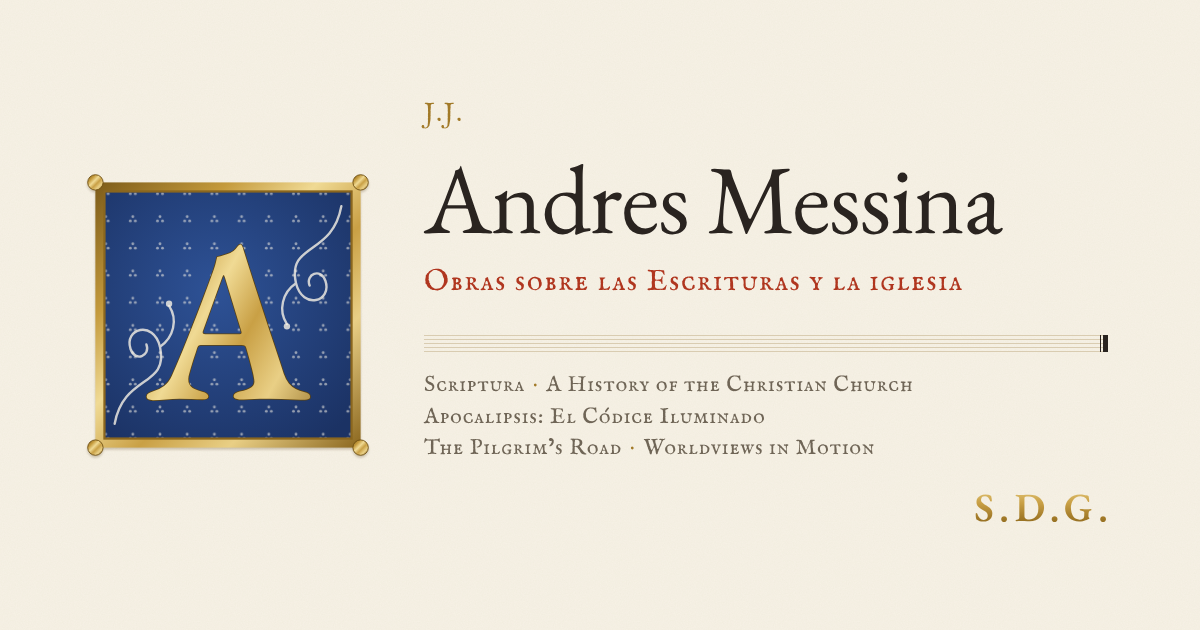
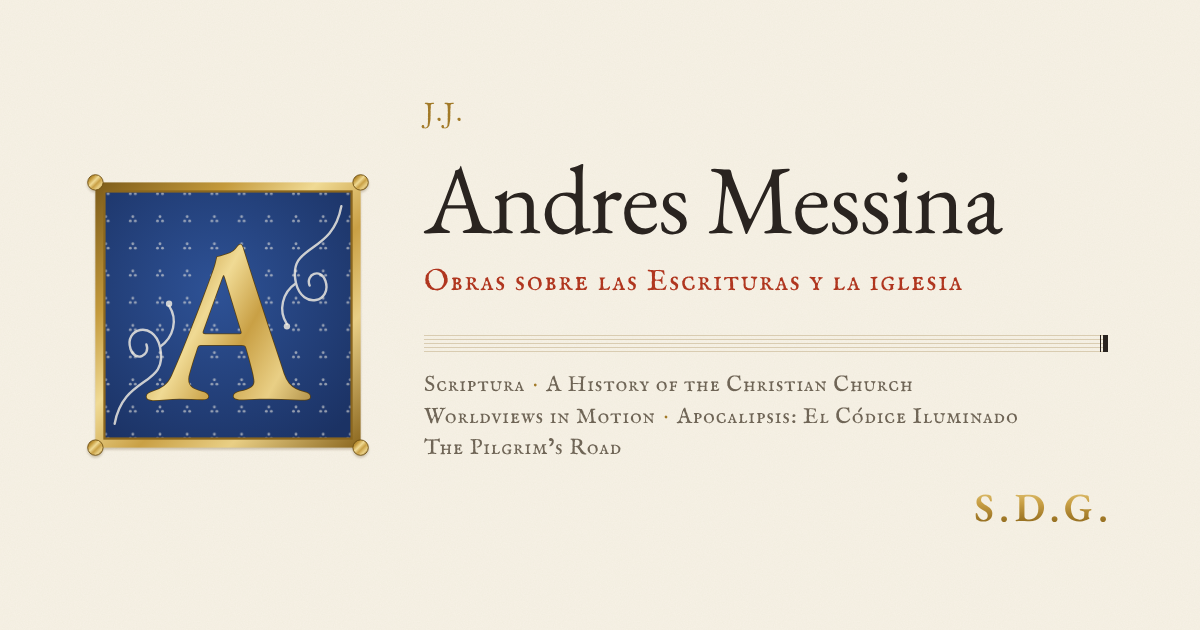
Place Worldviews in Motion third, after the church history
Claude-Session: https://claude.ai/code/session_01DYe9WbnfF8iCgbQuoUdmui

Changed region(s): [[0.3392, 0.6333, 0.8325, 0.7238]]

diff --git a/es/index.html b/es/index.html
@@ -4,7 +4,7 @@
 <meta charset="utf-8">
 <meta name="viewport" content="width=device-width, initial-scale=1, viewport-fit=cover">
 <title>Andres Messina</title>
-<meta name="description" content="Obras de Andres Messina para leer las Escrituras y conocer la historia de la iglesia: Scriptura, A History of the Christian Church, Apocalipsis: El Códice Iluminado, The Pilgrim’s Road y Worldviews in Motion.">
+<meta name="description" content="Obras de Andres Messina para leer las Escrituras y conocer la historia de la iglesia: Scriptura, A History of the Christian Church, Worldviews in Motion, Apocalipsis: El Códice Iluminado y The Pilgrim’s Road.">
 <meta name="author" content="Andres Messina">
 <meta name="color-scheme" content="light">
 <meta name="theme-color" content="#F7F2E6">
@@ -15,7 +15,7 @@
 <meta property="og:type" content="website">
 <meta property="og:site_name" content="Andres Messina">
 <meta property="og:title" content="Andres Messina">
-<meta property="og:description" content="Obras de Andres Messina para leer las Escrituras y conocer la historia de la iglesia: Scriptura, A History of the Christian Church, Apocalipsis: El Códice Iluminado, The Pilgrim’s Road y Worldviews in Motion.">
+<meta property="og:description" content="Obras de Andres Messina para leer las Escrituras y conocer la historia de la iglesia: Scriptura, A History of the Christian Church, Worldviews in Motion, Apocalipsis: El Códice Iluminado y The Pilgrim’s Road.">
 <meta property="og:url" content="https://andresmessina-sdg.github.io/es/">
 <meta property="og:locale" content="es_ES">
 <meta property="og:locale:alternate" content="en_US">
@@ -25,10 +25,10 @@
 <meta property="og:image:alt" content="Una A dorada sobre fondo azul, junto al nombre Andres Messina y sus cinco obras.">
 <meta name="twitter:card" content="summary_large_image">
 <meta name="twitter:title" content="Andres Messina">
-<meta name="twitter:description" content="Obras de Andres Messina para leer las Escrituras y conocer la historia de la iglesia: Scriptura, A History of the Christian Church, Apocalipsis: El Códice Iluminado, The Pilgrim’s Road y Worldviews in Motion.">
+<meta name="twitter:description" content="Obras de Andres Messina para leer las Escrituras y conocer la historia de la iglesia: Scriptura, A History of the Christian Church, Worldviews in Motion, Apocalipsis: El Códice Iluminado y The Pilgrim’s Road.">
 <meta name="twitter:image" content="https://andresmessina-sdg.github.io/assets/og-es.png">
 <meta name="twitter:image:alt" content="Una A dorada sobre fondo azul, junto al nombre Andres Messina y sus cinco obras.">
-<script type="application/ld+json">{"@context":"https://schema.org","@graph":[{"@type":"Person","@id":"https://andresmessina-sdg.github.io/#me","name":"Andres Messina","url":"https://andresmessina-sdg.github.io/","image":"https://andresmessina-sdg.github.io/assets/portrait.jpg","description":"Soy un cristiano al que le encanta aprender y construir para la gloria de Dios. Me esfuerzo por ofrecer una experiencia edificante y de excelencia estética que ayude a otros a aprender sobre las Escrituras, el cristianismo y la historia de la iglesia.","jobTitle":"Experto en Humanidades y Ciencias Sociales","knowsLanguage":["es","en"],"knowsAbout":["Teología","Filosofía","Economía","Derecho Internacional"],"sameAs":["https://www.linkedin.com/in/andresmessina/","https://github.com/andresmessina-SDG","https://ko-fi.com/andresmessina"]},{"@type":"WebPage","@id":"https://andresmessina-sdg.github.io/es/","url":"https://andresmessina-sdg.github.io/es/","name":"Andres Messina","description":"Obras de Andres Messina para leer las Escrituras y conocer la historia de la iglesia: Scriptura, A History of the Christian Church, Apocalipsis: El Códice Iluminado, The Pilgrim’s Road y Worldviews in Motion.","inLanguage":"es","author":{"@id":"https://andresmessina-sdg.github.io/#me"},"about":{"@id":"https://andresmessina-sdg.github.io/#me"},"mainEntity":{"@type":"ItemList","itemListElement":[{"@type":"ListItem","position":1,"item":{"@type":"SoftwareApplication","operatingSystem":"Linux","applicationCategory":"ReferenceApplication","offers":{"@type":"Offer","price":"0","priceCurrency":"USD"},"name":"Scriptura","url":"https://andresmessina-sdg.github.io/scriptura/es/","description":"Lee dos traducciones lado a lado, con el griego y el hebreo bajo cada palabra y cómo la iglesia leyó cada versículo.","author":{"@id":"https://andresmessina-sdg.github.io/#me"}}},{"@type":"ListItem","position":2,"item":{"@type":"WebSite","name":"A History of the Christian Church","url":"https://andresmessina-sdg.github.io/church-history/","description":"La iglesia desde Pentecostés hasta hoy, dibujada como un solo río y contada con las palabras de sus propios testigos: las Escrituras, los padres, los credos y los reformadores.","author":{"@id":"https://andresmessina-sdg.github.io/#me"}}},{"@type":"ListItem","position":3,"item":{"@type":"WebSite","name":"Apocalipsis: El Códice Iluminado","url":"https://andresmessina-sdg.github.io/revelation-explainer/?lang=es","description":"Una guía clara y llena de esperanza al libro de Apocalipsis: siete visiones de una misma era y veintidós de sus preguntas más malentendidas, leídas a la luz de toda la Escritura.","author":{"@id":"https://andresmessina-sdg.github.io/#me"}}},{"@type":"ListItem","position":4,"item":{"@type":"LearningResource","learningResourceType":"game","name":"The Pilgrim’s Road","url":"https://andresmessina-sdg.github.io/the-pilgrims-road/","description":"Once estaciones desde Belén hasta la Gran Puerta. Los alumnos aprenden la historia, las creencias y las ramas del cristianismo con preguntas, acertijos y rompecabezas.","author":{"@id":"https://andresmessina-sdg.github.io/#me"}}},{"@type":"ListItem","position":5,"item":{"@type":"WebSite","name":"Worldviews in Motion","url":"https://andresmessina-sdg.github.io/Worldviews-in-Motion/","description":"Las principales cosmovisiones del mundo, cada una pintada como una acuarela que responde a cuatro preguntas: de dónde venimos, qué salió mal, qué lo arregla y cómo termina todo. Una pregunta lleva de cada una a la siguiente, comenzando y terminando con el teísmo cristiano.","author":{"@id":"https://andresmessina-sdg.github.io/#me"}}}]}}]}</script>
+<script type="application/ld+json">{"@context":"https://schema.org","@graph":[{"@type":"Person","@id":"https://andresmessina-sdg.github.io/#me","name":"Andres Messina","url":"https://andresmessina-sdg.github.io/","image":"https://andresmessina-sdg.github.io/assets/portrait.jpg","description":"Soy un cristiano al que le encanta aprender y construir para la gloria de Dios. Me esfuerzo por ofrecer una experiencia edificante y de excelencia estética que ayude a otros a aprender sobre las Escrituras, el cristianismo y la historia de la iglesia.","jobTitle":"Experto en Humanidades y Ciencias Sociales","knowsLanguage":["es","en"],"knowsAbout":["Teología","Filosofía","Economía","Derecho Internacional"],"sameAs":["https://www.linkedin.com/in/andresmessina/","https://github.com/andresmessina-SDG","https://ko-fi.com/andresmessina"]},{"@type":"WebPage","@id":"https://andresmessina-sdg.github.io/es/","url":"https://andresmessina-sdg.github.io/es/","name":"Andres Messina","description":"Obras de Andres Messina para leer las Escrituras y conocer la historia de la iglesia: Scriptura, A History of the Christian Church, Worldviews in Motion, Apocalipsis: El Códice Iluminado y The Pilgrim’s Road.","inLanguage":"es","author":{"@id":"https://andresmessina-sdg.github.io/#me"},"about":{"@id":"https://andresmessina-sdg.github.io/#me"},"mainEntity":{"@type":"ItemList","itemListElement":[{"@type":"ListItem","position":1,"item":{"@type":"SoftwareApplication","operatingSystem":"Linux","applicationCategory":"ReferenceApplication","offers":{"@type":"Offer","price":"0","priceCurrency":"USD"},"name":"Scriptura","url":"https://andresmessina-sdg.github.io/scriptura/es/","description":"Lee dos traducciones lado a lado, con el griego y el hebreo bajo cada palabra y cómo la iglesia leyó cada versículo.","author":{"@id":"https://andresmessina-sdg.github.io/#me"}}},{"@type":"ListItem","position":2,"item":{"@type":"WebSite","name":"A History of the Christian Church","url":"https://andresmessina-sdg.github.io/church-history/","description":"La iglesia desde Pentecostés hasta hoy, dibujada como un solo río y contada con las palabras de sus propios testigos: las Escrituras, los padres, los credos y los reformadores.","author":{"@id":"https://andresmessina-sdg.github.io/#me"}}},{"@type":"ListItem","position":3,"item":{"@type":"WebSite","name":"Worldviews in Motion","url":"https://andresmessina-sdg.github.io/Worldviews-in-Motion/","description":"Las principales cosmovisiones del mundo, cada una pintada como una acuarela que responde a cuatro preguntas: de dónde venimos, qué salió mal, qué lo arregla y cómo termina todo. Una pregunta lleva de cada una a la siguiente, comenzando y terminando con el teísmo cristiano.","author":{"@id":"https://andresmessina-sdg.github.io/#me"}}},{"@type":"ListItem","position":4,"item":{"@type":"WebSite","name":"Apocalipsis: El Códice Iluminado","url":"https://andresmessina-sdg.github.io/revelation-explainer/?lang=es","description":"Una guía clara y llena de esperanza al libro de Apocalipsis: siete visiones de una misma era y veintidós de sus preguntas más malentendidas, leídas a la luz de toda la Escritura.","author":{"@id":"https://andresmessina-sdg.github.io/#me"}}},{"@type":"ListItem","position":5,"item":{"@type":"LearningResource","learningResourceType":"game","name":"The Pilgrim’s Road","url":"https://andresmessina-sdg.github.io/the-pilgrims-road/","description":"Once estaciones desde Belén hasta la Gran Puerta. Los alumnos aprenden la historia, las creencias y las ramas del cristianismo con preguntas, acertijos y rompecabezas.","author":{"@id":"https://andresmessina-sdg.github.io/#me"}}}]}}]}</script>
 <link rel="preload" href="/assets/fonts/eb-garamond-roman-latin.woff2" as="font" type="font/woff2" crossorigin>
 <link rel="preload" href="/assets/fonts/im-fell-english-sc-roman-latin.woff2" as="font" type="font/woff2" crossorigin>
 <link rel="stylesheet" href="/assets/site.css?v=ce9fe2e6fe">
@@ -167,6 +167,17 @@
       </li>
       <li class="sep" aria-hidden="true"><hr class="staff"></li>
       <li class="work blue">
+        <h3 lang="en"><a href="https://andresmessina-sdg.github.io/Worldviews-in-Motion/"><span class="versal">W</span>orldviews in Motion</a></h3>
+        <p class="kind">Acuarela animada, en inglés</p>
+        <a class="plate" href="https://andresmessina-sdg.github.io/Worldviews-in-Motion/"><img src="/assets/works/worldviews-1200.webp" srcset="/assets/works/worldviews-640.webp 640w, /assets/works/worldviews-1200.webp 1200w" sizes="(min-width: 640px) 37rem, calc(100vw - 90px)" width="1200" height="675" alt="El teísmo cristiano pintado en acuarela: el Dios trino sobre el mundo, unido a él por una cruz roja sobre la que se carga el pecado del hombre, sobre una línea de la historia desde la Creación hasta la Nueva Creación." loading="lazy" decoding="async"></a>
+        <p class="what">Las principales cosmovisiones del mundo, cada una pintada como una acuarela que responde a cuatro preguntas: de dónde venimos, qué salió mal, qué lo arregla y cómo termina todo. Una pregunta lleva de cada una a la siguiente, comenzando y terminando con el teísmo cristiano.</p>
+        <p class="facts"><span>English</span><span>22 cosmovisiones · 4 actos</span></p>
+        <p class="go">
+          <a href="https://andresmessina-sdg.github.io/Worldviews-in-Motion/">Ver las pinturas</a>
+        </p>
+      </li>
+      <li class="sep" aria-hidden="true"><hr class="staff"></li>
+      <li class="work red">
         <h3><a href="https://andresmessina-sdg.github.io/revelation-explainer/?lang=es"><span class="versal">A</span>pocalipsis: El Códice Iluminado</a></h3>
         <p class="kind">Una guía del último libro</p>
         <a class="plate" href="https://andresmessina-sdg.github.io/revelation-explainer/?lang=es"><img src="/assets/works/revelation-1200.webp" srcset="/assets/works/revelation-640.webp 640w, /assets/works/revelation-1200.webp 1200w" sizes="(min-width: 640px) 37rem, calc(100vw - 90px)" width="1200" height="675" alt="La pregunta 20 de la guía, «¿Qué es la primera resurrección?», sobre una iluminación medieval de un ángel que muestra a Juan la Nueva Jerusalén." loading="lazy" decoding="async"></a>
@@ -177,7 +188,7 @@
         </p>
       </li>
       <li class="sep" aria-hidden="true"><hr class="staff"></li>
-      <li class="work red">
+      <li class="work blue">
         <h3 lang="en"><a href="https://andresmessina-sdg.github.io/the-pilgrims-road/"><span class="versal">T</span>he Pilgrim’s Road</a></h3>
         <p class="kind">Juego para el aula, en inglés</p>
         <a class="plate" href="https://andresmessina-sdg.github.io/the-pilgrims-road/"><img src="/assets/works/pilgrims-road-1200.webp" srcset="/assets/works/pilgrims-road-640.webp 640w, /assets/works/pilgrims-road-1200.webp 1200w" sizes="(min-width: 640px) 37rem, calc(100vw - 90px)" width="1200" height="675" alt="El mapa de The Pilgrim’s Road: un camino dorado que pasa por las estaciones bajo un cielo nocturno, desde Belén." loading="lazy" decoding="async"></a>
@@ -185,17 +196,6 @@
         <p class="facts"><span>English</span><span>11 estaciones · 33 estrellas</span></p>
         <p class="go">
           <a href="https://andresmessina-sdg.github.io/the-pilgrims-road/">Comenzar el viaje</a>
-        </p>
-      </li>
-      <li class="sep" aria-hidden="true"><hr class="staff"></li>
-      <li class="work blue">
-        <h3 lang="en"><a href="https://andresmessina-sdg.github.io/Worldviews-in-Motion/"><span class="versal">W</span>orldviews in Motion</a></h3>
-        <p class="kind">Acuarela animada, en inglés</p>
-        <a class="plate" href="https://andresmessina-sdg.github.io/Worldviews-in-Motion/"><img src="/assets/works/worldviews-1200.webp" srcset="/assets/works/worldviews-640.webp 640w, /assets/works/worldviews-1200.webp 1200w" sizes="(min-width: 640px) 37rem, calc(100vw - 90px)" width="1200" height="675" alt="El teísmo cristiano pintado en acuarela: el Dios trino sobre el mundo, unido a él por una cruz roja sobre la que se carga el pecado del hombre, sobre una línea de la historia desde la Creación hasta la Nueva Creación." loading="lazy" decoding="async"></a>
-        <p class="what">Las principales cosmovisiones del mundo, cada una pintada como una acuarela que responde a cuatro preguntas: de dónde venimos, qué salió mal, qué lo arregla y cómo termina todo. Una pregunta lleva de cada una a la siguiente, comenzando y terminando con el teísmo cristiano.</p>
-        <p class="facts"><span>English</span><span>22 cosmovisiones · 4 actos</span></p>
-        <p class="go">
-          <a href="https://andresmessina-sdg.github.io/Worldviews-in-Motion/">Ver las pinturas</a>
         </p>
       </li>
     </ul>

diff --git a/index.html b/index.html
@@ -4,7 +4,7 @@
 <meta charset="utf-8">
 <meta name="viewport" content="width=device-width, initial-scale=1, viewport-fit=cover">
 <title>Andres Messina</title>
-<meta name="description" content="Works by Andres Messina for reading Scripture and learning the church’s story: Scriptura, A History of the Christian Church, Revelation: The Illuminated Codex, The Pilgrim’s Road and Worldviews in Motion.">
+<meta name="description" content="Works by Andres Messina for reading Scripture and learning the church’s story: Scriptura, A History of the Christian Church, Worldviews in Motion, Revelation: The Illuminated Codex and The Pilgrim’s Road.">
 <meta name="author" content="Andres Messina">
 <meta name="color-scheme" content="light">
 <meta name="theme-color" content="#F7F2E6">
@@ -15,7 +15,7 @@
 <meta property="og:type" content="website">
 <meta property="og:site_name" content="Andres Messina">
 <meta property="og:title" content="Andres Messina">
-<meta property="og:description" content="Works by Andres Messina for reading Scripture and learning the church’s story: Scriptura, A History of the Christian Church, Revelation: The Illuminated Codex, The Pilgrim’s Road and Worldviews in Motion.">
+<meta property="og:description" content="Works by Andres Messina for reading Scripture and learning the church’s story: Scriptura, A History of the Christian Church, Worldviews in Motion, Revelation: The Illuminated Codex and The Pilgrim’s Road.">
 <meta property="og:url" content="https://andresmessina-sdg.github.io/">
 <meta property="og:locale" content="en_US">
 <meta property="og:locale:alternate" content="es_ES">
@@ -25,10 +25,10 @@
 <meta property="og:image:alt" content="A gilded initial A on a blue ground, beside the name Andres Messina and his five works.">
 <meta name="twitter:card" content="summary_large_image">
 <meta name="twitter:title" content="Andres Messina">
-<meta name="twitter:description" content="Works by Andres Messina for reading Scripture and learning the church’s story: Scriptura, A History of the Christian Church, Revelation: The Illuminated Codex, The Pilgrim’s Road and Worldviews in Motion.">
+<meta name="twitter:description" content="Works by Andres Messina for reading Scripture and learning the church’s story: Scriptura, A History of the Christian Church, Worldviews in Motion, Revelation: The Illuminated Codex and The Pilgrim’s Road.">
 <meta name="twitter:image" content="https://andresmessina-sdg.github.io/assets/og-en.png">
 <meta name="twitter:image:alt" content="A gilded initial A on a blue ground, beside the name Andres Messina and his five works.">
-<script type="application/ld+json">{"@context":"https://schema.org","@graph":[{"@type":"Person","@id":"https://andresmessina-sdg.github.io/#me","name":"Andres Messina","url":"https://andresmessina-sdg.github.io/","image":"https://andresmessina-sdg.github.io/assets/portrait.jpg","description":"I am a Christian who loves to learn and build to the glory of God. I work hard to curate an edifying and aesthetically excellent experience that helps others learn about Scripture, Christianity and the history of the church.","jobTitle":"Humanities & Social Science Expert","knowsLanguage":["es","en"],"knowsAbout":["Theology","Philosophy","Economics","International Law"],"sameAs":["https://www.linkedin.com/in/andresmessina/","https://github.com/andresmessina-SDG","https://ko-fi.com/andresmessina"]},{"@type":"WebPage","@id":"https://andresmessina-sdg.github.io/","url":"https://andresmessina-sdg.github.io/","name":"Andres Messina","description":"Works by Andres Messina for reading Scripture and learning the church’s story: Scriptura, A History of the Christian Church, Revelation: The Illuminated Codex, The Pilgrim’s Road and Worldviews in Motion.","inLanguage":"en","author":{"@id":"https://andresmessina-sdg.github.io/#me"},"about":{"@id":"https://andresmessina-sdg.github.io/#me"},"mainEntity":{"@type":"ItemList","itemListElement":[{"@type":"ListItem","position":1,"item":{"@type":"SoftwareApplication","operatingSystem":"Linux","applicationCategory":"ReferenceApplication","offers":{"@type":"Offer","price":"0","priceCurrency":"USD"},"name":"Scriptura","url":"https://andresmessina-sdg.github.io/scriptura/","description":"Read two translations side by side, with the Greek and Hebrew under every word and how the church read each verse.","author":{"@id":"https://andresmessina-sdg.github.io/#me"}}},{"@type":"ListItem","position":2,"item":{"@type":"WebSite","name":"A History of the Christian Church","url":"https://andresmessina-sdg.github.io/church-history/","description":"The church from Pentecost to today, drawn as one river and told in the words of its own witnesses: Scripture, the fathers, the creeds and the Reformers.","author":{"@id":"https://andresmessina-sdg.github.io/#me"}}},{"@type":"ListItem","position":3,"item":{"@type":"WebSite","name":"Revelation: The Illuminated Codex","url":"https://andresmessina-sdg.github.io/revelation-explainer/","description":"A clear, hopeful guide to the Book of Revelation: seven visions of one age, and twenty-two of its most misunderstood questions, read in the light of all Scripture.","author":{"@id":"https://andresmessina-sdg.github.io/#me"}}},{"@type":"ListItem","position":4,"item":{"@type":"LearningResource","learningResourceType":"game","name":"The Pilgrim’s Road","url":"https://andresmessina-sdg.github.io/the-pilgrims-road/","description":"Eleven stations from Bethlehem to the Great Gate. Students learn the story, beliefs and branches of Christianity through quizzes, riddles and puzzles.","author":{"@id":"https://andresmessina-sdg.github.io/#me"}}},{"@type":"ListItem","position":5,"item":{"@type":"WebSite","name":"Worldviews in Motion","url":"https://andresmessina-sdg.github.io/Worldviews-in-Motion/","description":"The world’s major worldviews, each painted as one watercolor that answers four questions: where we came from, what went wrong, what puts it right and where it all ends. One question leads from each to the next, beginning and ending with Christian theism.","author":{"@id":"https://andresmessina-sdg.github.io/#me"}}}]}}]}</script>
+<script type="application/ld+json">{"@context":"https://schema.org","@graph":[{"@type":"Person","@id":"https://andresmessina-sdg.github.io/#me","name":"Andres Messina","url":"https://andresmessina-sdg.github.io/","image":"https://andresmessina-sdg.github.io/assets/portrait.jpg","description":"I am a Christian who loves to learn and build to the glory of God. I work hard to curate an edifying and aesthetically excellent experience that helps others learn about Scripture, Christianity and the history of the church.","jobTitle":"Humanities & Social Science Expert","knowsLanguage":["es","en"],"knowsAbout":["Theology","Philosophy","Economics","International Law"],"sameAs":["https://www.linkedin.com/in/andresmessina/","https://github.com/andresmessina-SDG","https://ko-fi.com/andresmessina"]},{"@type":"WebPage","@id":"https://andresmessina-sdg.github.io/","url":"https://andresmessina-sdg.github.io/","name":"Andres Messina","description":"Works by Andres Messina for reading Scripture and learning the church’s story: Scriptura, A History of the Christian Church, Worldviews in Motion, Revelation: The Illuminated Codex and The Pilgrim’s Road.","inLanguage":"en","author":{"@id":"https://andresmessina-sdg.github.io/#me"},"about":{"@id":"https://andresmessina-sdg.github.io/#me"},"mainEntity":{"@type":"ItemList","itemListElement":[{"@type":"ListItem","position":1,"item":{"@type":"SoftwareApplication","operatingSystem":"Linux","applicationCategory":"ReferenceApplication","offers":{"@type":"Offer","price":"0","priceCurrency":"USD"},"name":"Scriptura","url":"https://andresmessina-sdg.github.io/scriptura/","description":"Read two translations side by side, with the Greek and Hebrew under every word and how the church read each verse.","author":{"@id":"https://andresmessina-sdg.github.io/#me"}}},{"@type":"ListItem","position":2,"item":{"@type":"WebSite","name":"A History of the Christian Church","url":"https://andresmessina-sdg.github.io/church-history/","description":"The church from Pentecost to today, drawn as one river and told in the words of its own witnesses: Scripture, the fathers, the creeds and the Reformers.","author":{"@id":"https://andresmessina-sdg.github.io/#me"}}},{"@type":"ListItem","position":3,"item":{"@type":"WebSite","name":"Worldviews in Motion","url":"https://andresmessina-sdg.github.io/Worldviews-in-Motion/","description":"The world’s major worldviews, each painted as one watercolor that answers four questions: where we came from, what went wrong, what puts it right and where it all ends. One question leads from each to the next, beginning and ending with Christian theism.","author":{"@id":"https://andresmessina-sdg.github.io/#me"}}},{"@type":"ListItem","position":4,"item":{"@type":"WebSite","name":"Revelation: The Illuminated Codex","url":"https://andresmessina-sdg.github.io/revelation-explainer/","description":"A clear, hopeful guide to the Book of Revelation: seven visions of one age, and twenty-two of its most misunderstood questions, read in the light of all Scripture.","author":{"@id":"https://andresmessina-sdg.github.io/#me"}}},{"@type":"ListItem","position":5,"item":{"@type":"LearningResource","learningResourceType":"game","name":"The Pilgrim’s Road","url":"https://andresmessina-sdg.github.io/the-pilgrims-road/","description":"Eleven stations from Bethlehem to the Great Gate. Students learn the story, beliefs and branches of Christianity through quizzes, riddles and puzzles.","author":{"@id":"https://andresmessina-sdg.github.io/#me"}}}]}}]}</script>
 <link rel="preload" href="/assets/fonts/eb-garamond-roman-latin.woff2" as="font" type="font/woff2" crossorigin>
 <link rel="preload" href="/assets/fonts/im-fell-english-sc-roman-latin.woff2" as="font" type="font/woff2" crossorigin>
 <link rel="stylesheet" href="/assets/site.css?v=ce9fe2e6fe">
@@ -167,6 +167,17 @@
       </li>
       <li class="sep" aria-hidden="true"><hr class="staff"></li>
       <li class="work blue">
+        <h3><a href="https://andresmessina-sdg.github.io/Worldviews-in-Motion/"><span class="versal">W</span>orldviews in Motion</a></h3>
+        <p class="kind">Animated watercolor</p>
+        <a class="plate" href="https://andresmessina-sdg.github.io/Worldviews-in-Motion/"><img src="/assets/works/worldviews-1200.webp" srcset="/assets/works/worldviews-640.webp 640w, /assets/works/worldviews-1200.webp 1200w" sizes="(min-width: 640px) 37rem, calc(100vw - 90px)" width="1200" height="675" alt="Christian theism painted in watercolor: the triune God above the world, joined to it by a red cross on which man’s sin is laid, over a line of history from Creation to New Creation." loading="lazy" decoding="async"></a>
+        <p class="what">The world’s major worldviews, each painted as one watercolor that answers four questions: where we came from, what went wrong, what puts it right and where it all ends. One question leads from each to the next, beginning and ending with Christian theism.</p>
+        <p class="facts"><span>English</span><span>22 worldviews · 4 acts</span></p>
+        <p class="go">
+          <a href="https://andresmessina-sdg.github.io/Worldviews-in-Motion/">Watch the paintings</a>
+        </p>
+      </li>
+      <li class="sep" aria-hidden="true"><hr class="staff"></li>
+      <li class="work red">
         <h3><a href="https://andresmessina-sdg.github.io/revelation-explainer/"><span class="versal">R</span>evelation: The Illuminated Codex</a></h3>
         <p class="kind">A guide to the last book</p>
         <a class="plate" href="https://andresmessina-sdg.github.io/revelation-explainer/"><img src="/assets/works/revelation-1200.webp" srcset="/assets/works/revelation-640.webp 640w, /assets/works/revelation-1200.webp 1200w" sizes="(min-width: 640px) 37rem, calc(100vw - 90px)" width="1200" height="675" alt="Question 20 of the guide, “What is the first resurrection?”, above a medieval illumination of an angel showing John the New Jerusalem." loading="lazy" decoding="async"></a>
@@ -177,7 +188,7 @@
         </p>
       </li>
       <li class="sep" aria-hidden="true"><hr class="staff"></li>
-      <li class="work red">
+      <li class="work blue">
         <h3><a href="https://andresmessina-sdg.github.io/the-pilgrims-road/"><span class="versal">T</span>he Pilgrim’s Road</a></h3>
         <p class="kind">Classroom game</p>
         <a class="plate" href="https://andresmessina-sdg.github.io/the-pilgrims-road/"><img src="/assets/works/pilgrims-road-1200.webp" srcset="/assets/works/pilgrims-road-640.webp 640w, /assets/works/pilgrims-road-1200.webp 1200w" sizes="(min-width: 640px) 37rem, calc(100vw - 90px)" width="1200" height="675" alt="The Pilgrim’s Road map: a golden road winding past the medallion stations under a night sky, starting at Bethlehem." loading="lazy" decoding="async"></a>
@@ -185,17 +196,6 @@
         <p class="facts"><span>English</span><span>11 stations · 33 stars</span></p>
         <p class="go">
           <a href="https://andresmessina-sdg.github.io/the-pilgrims-road/">Begin the journey</a>
-        </p>
-      </li>
-      <li class="sep" aria-hidden="true"><hr class="staff"></li>
-      <li class="work blue">
-        <h3><a href="https://andresmessina-sdg.github.io/Worldviews-in-Motion/"><span class="versal">W</span>orldviews in Motion</a></h3>
-        <p class="kind">Animated watercolor</p>
-        <a class="plate" href="https://andresmessina-sdg.github.io/Worldviews-in-Motion/"><img src="/assets/works/worldviews-1200.webp" srcset="/assets/works/worldviews-640.webp 640w, /assets/works/worldviews-1200.webp 1200w" sizes="(min-width: 640px) 37rem, calc(100vw - 90px)" width="1200" height="675" alt="Christian theism painted in watercolor: the triune God above the world, joined to it by a red cross on which man’s sin is laid, over a line of history from Creation to New Creation." loading="lazy" decoding="async"></a>
-        <p class="what">The world’s major worldviews, each painted as one watercolor that answers four questions: where we came from, what went wrong, what puts it right and where it all ends. One question leads from each to the next, beginning and ending with Christian theism.</p>
-        <p class="facts"><span>English</span><span>22 worldviews · 4 acts</span></p>
-        <p class="go">
-          <a href="https://andresmessina-sdg.github.io/Worldviews-in-Motion/">Watch the paintings</a>
         </p>
       </li>
     </ul>

diff --git a/tools/render-images.js b/tools/render-images.js
@@ -19,8 +19,8 @@ const pages = {};
 
 const og = (lang) => {
   const t = lang === 'es'
-    ? { sub: 'Obras sobre las Escrituras y la iglesia', works: ['Scriptura', 'A History of the Christian Church', 'Apocalipsis: El Códice Iluminado', 'The Pilgrim’s Road', 'Worldviews in Motion'] }
-    : { sub: 'Works on Scripture and the church', works: ['Scriptura', 'A History of the Christian Church', 'Revelation: The Illuminated Codex', 'The Pilgrim’s Road', 'Worldviews in Motion'] };
+    ? { sub: 'Obras sobre las Escrituras y la iglesia', works: ['Scriptura', 'A History of the Christian Church', 'Worldviews in Motion', 'Apocalipsis: El Códice Iluminado', 'The Pilgrim’s Road'] }
+    : { sub: 'Works on Scripture and the church', works: ['Scriptura', 'A History of the Christian Church', 'Worldviews in Motion', 'Revelation: The Illuminated Codex', 'The Pilgrim’s Road'] };
   return `<!doctype html><html lang="${lang}"><meta charset="utf-8"><style>${fontFaces}
   html,body{margin:0}
   body{width:1200px;height:630px;box-sizing:border-box;padding:0 92px;display:grid;grid-template-columns:272px 1fr;gap:60px;align-items:center;
@@ -39,7 +39,7 @@ const og = (lang) => {
   </style><body>
   <div class="ini">${initial}</div>
   <div><p class="jj">J.J.</p><h1>Andres Messina</h1><p class="sub">${t.sub}</p><div class="staff"></div>
-  <p class="works">${t.works[0]}<b>·</b>${t.works[1]}<br>${t.works[2]}<br>${t.works[3]}<b>·</b>${t.works[4]}</p><p class="sdg">S.D.G.</p></div>
+  <p class="works">${t.works[0]}<b>·</b>${t.works[1]}<br>${t.works[2]}<b>·</b>${t.works[3]}<br>${t.works[4]}</p><p class="sdg">S.D.G.</p></div>
   </body></html>`;
 };
 

diff --git a/404.html b/404.html
@@ -35,9 +35,9 @@
     <ul class="nf-list">
       <li><a href="https://andresmessina-sdg.github.io/scriptura/" lang="en">Scriptura</a></li>
       <li><a href="https://andresmessina-sdg.github.io/church-history/" lang="en">A History of the Christian Church</a></li>
+      <li><a href="https://andresmessina-sdg.github.io/Worldviews-in-Motion/" lang="en">Worldviews in Motion</a></li>
       <li><a href="https://andresmessina-sdg.github.io/revelation-explainer/" lang="en">Revelation: The Illuminated Codex</a></li>
       <li><a href="https://andresmessina-sdg.github.io/the-pilgrims-road/" lang="en">The Pilgrim’s Road</a></li>
-      <li><a href="https://andresmessina-sdg.github.io/Worldviews-in-Motion/" lang="en">Worldviews in Motion</a></li>
     </ul>
 
     <hr class="staff final" aria-hidden="true" style="margin-top: 56px">

diff --git a/README.md b/README.md
@@ -1,9 +1,8 @@
 # andresmessina-sdg.github.io
 
 The home page of Andres Messina's works on Scripture and the church:
-Scriptura, A History of the Christian Church, Revelation: The
-Illuminated Codex, The Pilgrim's Road
-and Worldviews in Motion.
+Scriptura, A History of the Christian Church, Worldviews in Motion,
+Revelation: The Illuminated Codex and The Pilgrim's Road.
 
 Live at <https://andresmessina-sdg.github.io/>, in English and at
 [`/es/`](https://andresmessina-sdg.github.io/es/) in Spanish.
